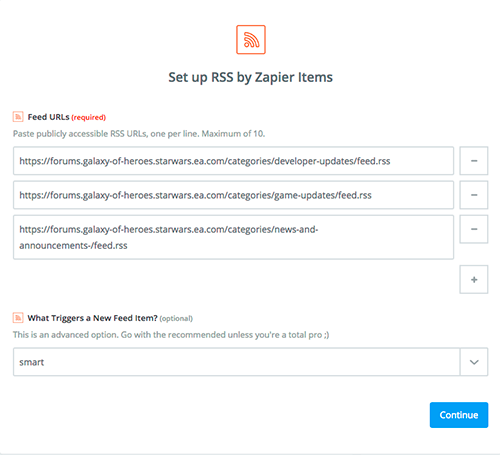
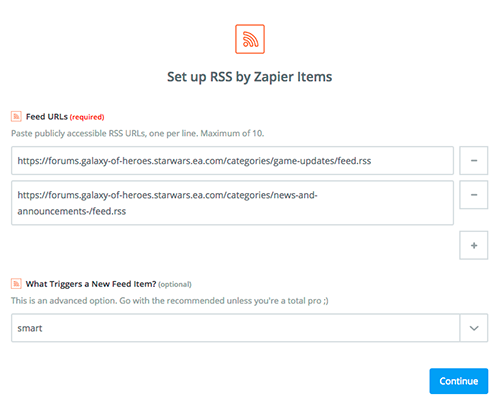
Updated discord instructions

diff --git a/discord.html b/discord.html
@@ -56,7 +56,6 @@
   <img src="images/step2.png" width="500" border="1" />
   <p>Enter the following three URLs:</p>
     <ul>
-      <li>https://forums.galaxy-of-heroes.starwars.ea.com/categories/developer-updates/feed.rss</li>
       <li>https://forums.galaxy-of-heroes.starwars.ea.com/categories/game-updates/feed.rss</li>
       <li>https://forums.galaxy-of-heroes.starwars.ea.com/categories/news-and-announcements-/feed.rss</li>
     </ul>

diff --git a/style.css b/style.css
@@ -367,6 +367,12 @@ input[type=text],textarea { font-size: 14px; padding:4px;margin:3px;}
   cursor: pointer;
 }
 
+.half {
+	display: inline-block;
+	width:45%;
+	min-width: 400px;
+	vertical-align: top;
+}
 
 @media (max-width: 800px) {
 	.square {

diff --git a/findshard.php b/findshard.php
@@ -47,10 +47,10 @@ if(!empty($me) && !empty($ally)) {
 <html>
 	<head>
 		<title>SWGOH Tools - Find your SWGOH Squad Arena Shard</title>
-	  	<link rel="stylesheet" type="text/css" href="style.css" media="screen" />
+	  	<link rel="stylesheet" type="text/css" href="style.css?2" media="screen" />
 		<meta charset="utf-8" />
 		<style>
-			p { max-width: 600px;}
+			p { max-width: 800px;}
 			.swgoh_ad {
 			position: absolute;
 			left:0;
@@ -66,25 +66,65 @@ if(!empty($me) && !empty($ally)) {
 			@media(min-width: 720px) { #top { padding-bottom:0px} #ad { height:90px;} .swgoh_ad { left:inherit; top:0; right:0; width: 528px; height: 90px; } }
 			@media(min-width: 920px) { #top { padding-bottom:0px} #ad { height:90px;} .swgoh_ad { left:inherit; top:0; right:0; width: 728px; height: 90px; } }
 			@media(min-width: 1200px) { #top { padding-bottom:0px} #ad { height:90px;} .swgoh_ad { left:inherit; top:0; right:0; width: 1000px; height: 90px; } }
-  </style>
-  <script async src="//pagead2.googlesyndication.com/pagead/js/adsbygoogle.js"></script>
+  	</style>
+  	<script async src="//pagead2.googlesyndication.com/pagead/js/adsbygoogle.js"></script>
+
+  	<script src="https://code.jquery.com/jquery-3.2.1.min.js" integrity="sha256-hwg4gsxgFZhOsEEamdOYGBf13FyQuiTwlAQgxVSNgt4=" crossorigin="anonymous"></script>
+	<script>
+	$(document).ready(function() {
+
+		var storage = null;
+		if(window.localStorage) storage = window.localStorage;
+		else if(window.globalStorage) storage = window.globalStorage[location.hostname];
+
+		var name = fetch("name");
+		if(name) $('#gamename').val(name);
+		$('#gamename').on("change",function(e) {
+			store("name",$('#gamename').val());
+		});
+
+		var ally = fetch("ally");
+		if(ally) $('#ally').val(ally);
+		$('#ally').on("change",function(e) {
+			store("ally",$('#ally').val());
+		});
+
+		var gg = fetch("gg");
+		if(gg) $('#gg').val(gg);
+		$('#gg').on("change",function(e) {
+			store("gg",$('#gg').val());
+		});
+
+		var contact = fetch("contact");
+		if(contact) $('#contact').val(contact);
+		$('#contact').on("change",function(e) {
+			store("contact",$('#contact').val());
+		});
+
+		function store(key,val) {
+			storage.setItem(key,val);
+		}
+		function fetch(key) {
+			return storage.getItem(key);
+		}
+	});
+	</script>
 	</head>
 	<body>
 		<div id="top">
-      <a href="http://www.swgoh.life/index.html" id="logoClick"></a>
-	  <div id="ad">
-	  <!-- Swgoh.life -->
-	  <ins class="adsbygoogle swgoh_ad"
-	       style="display:block"
-	       data-ad-client="ca-pub-0176506581219642"
-	       data-ad-slot="9855290481"
-	       data-ad-format="horizontal"></ins>
-	  <script>
-	  //https://support.google.com/adsense/answer/6307124
-	  (adsbygoogle = window.adsbygoogle || []).push({});
-	  </script>
-	    </div>
-
+      	<a href="http://www.swgoh.life/index.html" id="logoClick"></a>
+			<div id="ad">
+			<!-- Swgoh.life -->
+			<ins class="adsbygoogle swgoh_ad"
+			 style="display:block"
+			 data-ad-client="ca-pub-0176506581219642"
+			 data-ad-slot="9855290481"
+			 data-ad-format="horizontal"></ins>
+			<script>
+			//https://support.google.com/adsense/answer/6307124
+			(adsbygoogle = window.adsbygoogle || []).push({});
+			</script>
+			</div>
 	</div>
 	<div id="middleSolo">
 		<h1><a href="http://www.swgoh.life/index.html">More Tools</a> &gt; Find your SWGOH Squad Arena Shard</h1>
@@ -104,31 +144,33 @@ if(!empty($me) && !empty($ally)) {
 
 		<? if(empty($me) || empty($ally) || empty($user)) { ?>
 			<p>Do you want to get in touch with the other players on your SWGOH Squad Arena shard?  Please enter as much information as you can, and we'll try to find your shardmates and give you their contact information, if possible.</p>
-
+			<p>Looking for Fleet Arena? That's <a href="fleet.php">over here</a>.</p>
 			<?
 				$self = explode("/",$_SERVER['PHP_SELF']);
 				$self = array_pop($self);
 			?>
 			<form action="<?=$self?>" method="post">
-				<b>Your Game Name:</b><br />
+				<div class="half">
+				<b>Your Game Name:</b> (required)<br />
 				Found in the upper left corner inside the game on the home screen.<br />
-				<input type="text" name="gamename" value="<?=$me?>" /><br /><br />
+				<input type="text" id="gamename" name="gamename" value="<?=$me?>" /><br /><br />
 
-				<b>Your Ally Code:</b><br />
+				<b>Your Ally Code:</b> (required)<br />
 				Found in the Allies section of the game at the top. Ex: 123-456-789.<br />
-				<input type="text" name="ally" /><br /><br />
+				<input type="text" id="ally" name="ally" /><br /><br />
 				
-				<b>Your Contact Info:</b><br />
+				<b>Your Contact Info:</b> (optional)<br />
 				Explain how you want to be contacted. Ex: "Message me on Discord at User#1234"<br />
-				<textarea type="text" name="contact" rows="3" cols="40"></textarea>
+				<textarea type="text" id="contact" name="contact" rows="3" cols="40"></textarea>
 				<br /><br />
 
-				<b>Your SWGOH.GG Name:</b><br />
-				This helps people find you. (optional)<br />
-				https://swgoh.gg/u/<input type="text" name="gg" />/<br /><br />
+				<b>Your SWGOH.GG Name:</b> (optional)<br />
+				This helps people find you.<br />
+				https://swgoh.gg/u/<input type="text" id="gg" name="gg" />/<br /><br />
+				</div>
+				<div class="half">
 
 				<b>Enter the names of the top 10 people in your shard's Squad Arena:</b><br />
-				Looking for Fleet Arena? That's <a href="fleet.php">over here</a>. This is for Squad Arena only.<br />
 				<input type="text" name="mate1" /><br />
 				<input type="text" name="mate2" /><br />
 				<input type="text" name="mate3" /><br />
@@ -142,11 +184,16 @@ if(!empty($me) && !empty($ally)) {
 
 				<br />
 				<input type="submit" value="Search for Shard" class="btn" />
+				</div>
 			</form>
 		<? } else { ?>
-			<p>We found the following people who might be in your shard.</p>
-			<p><b>Note:</b> This tool is very new, so it hasn't collected enough names to be useful yet. Please encourage other people to enter their info so that this can work better.</p>
+			<? 
+				$rs = $db->query("SELECT count(*) FROM swgoh_shard");
+				$num = $db->getFirst($rs);
+			?>
+			<p><b>Note:</b> This tool is very new, so it hasn't collected enough names to be useful yet (<?=$num?> so far). Please encourage other people to enter their info so that this can work better.</p>
 
+			<p>We found the following people who might be in your shard.</p>
 			<br />
 			<table class="info">
 				<tr><th>Name</th><th>SWGOH.GG Link</th><th>Contact Info</th></tr>
@@ -186,7 +233,7 @@ if(!empty($me) && !empty($ally)) {
 
 
 
-	<br /><br /><br /><ins class="adsbygoogle"
+	<br /><br /><hr /><ins class="adsbygoogle"
 			 style="display:block; text-align:center;"
 			 data-ad-format="fluid"
 			 data-ad-layout="in-article"

diff --git a/findfleet.php b/findfleet.php
@@ -47,10 +47,10 @@ if(!empty($me) && !empty($ally)) {
 <html>
 	<head>
 		<title>SWGOH Tools - Find your SWGOH Fleet Arena Shard</title>
-	  	<link rel="stylesheet" type="text/css" href="style.css" media="screen" />
+	  	<link rel="stylesheet" type="text/css" href="style.css?2" media="screen" />
 		<meta charset="utf-8" />
 		<style>
-			p { max-width: 600px;}
+			p { max-width: 800px;}
 			.swgoh_ad {
 			position: absolute;
 			left:0;
@@ -68,23 +68,63 @@ if(!empty($me) && !empty($ally)) {
 			@media(min-width: 1200px) { #top { padding-bottom:0px} #ad { height:90px;} .swgoh_ad { left:inherit; top:0; right:0; width: 1000px; height: 90px; } }
   </style>
   <script async src="//pagead2.googlesyndication.com/pagead/js/adsbygoogle.js"></script>
+
+  	<script src="https://code.jquery.com/jquery-3.2.1.min.js" integrity="sha256-hwg4gsxgFZhOsEEamdOYGBf13FyQuiTwlAQgxVSNgt4=" crossorigin="anonymous"></script>
+	<script>
+	$(document).ready(function() {
+
+		var storage = null;
+		if(window.localStorage) storage = window.localStorage;
+		else if(window.globalStorage) storage = window.globalStorage[location.hostname];
+
+		var name = fetch("name");
+		if(name) $('#gamename').val(name);
+		$('#gamename').on("change",function(e) {
+			store("name",$('#gamename').val());
+		});
+
+		var ally = fetch("ally");
+		if(ally) $('#ally').val(ally);
+		$('#ally').on("change",function(e) {
+			store("ally",$('#ally').val());
+		});
+
+		var gg = fetch("gg");
+		if(gg) $('#gg').val(gg);
+		$('#gg').on("change",function(e) {
+			store("gg",$('#gg').val());
+		});
+
+		var contact = fetch("contact");
+		if(contact) $('#contact').val(contact);
+		$('#contact').on("change",function(e) {
+			store("contact",$('#contact').val());
+		});
+
+		function store(key,val) {
+			storage.setItem(key,val);
+		}
+		function fetch(key) {
+			return storage.getItem(key);
+		}
+	});
+	</script>
 	</head>
 	<body>
 		<div id="top">
-      <a href="http://www.swgoh.life/index.html" id="logoClick"></a>
-	  <div id="ad">
-	  <!-- Swgoh.life -->
-	  <ins class="adsbygoogle swgoh_ad"
-	       style="display:block"
-	       data-ad-client="ca-pub-0176506581219642"
-	       data-ad-slot="9855290481"
-	       data-ad-format="horizontal"></ins>
-	  <script>
-	  //https://support.google.com/adsense/answer/6307124
-	  (adsbygoogle = window.adsbygoogle || []).push({});
-	  </script>
-	    </div>
-
+      	<a href="http://www.swgoh.life/index.html" id="logoClick"></a>
+			<div id="ad">
+			<!-- Swgoh.life -->
+			<ins class="adsbygoogle swgoh_ad"
+			 style="display:block"
+			 data-ad-client="ca-pub-0176506581219642"
+			 data-ad-slot="9855290481"
+			 data-ad-format="horizontal"></ins>
+			<script>
+			//https://support.google.com/adsense/answer/6307124
+			(adsbygoogle = window.adsbygoogle || []).push({});
+			</script>
+			</div>
 	</div>
 	<div id="middleSolo">
 		<h1><a href="http://www.swgoh.life/index.html">More Tools</a> &gt; Find your SWGOH Fleet Arena Shard</h1>
@@ -104,31 +144,33 @@ if(!empty($me) && !empty($ally)) {
 
 		<? if(empty($me) || empty($ally) || empty($user)) { ?>
 			<p>Do you want to get in touch with the other players on your SWGOH Fleet Arena shard?  Please enter as much information as you can, and we'll try to find your shardmates and give you their contact information, if possible.</p>
+			<p>Looking for Squad Arena? That's <a href="index.php">over here</a>.</p>
 
 			<?
 				$self = explode("/",$_SERVER['PHP_SELF']);
 				$self = array_pop($self);
 			?>
 			<form action="<?=$self?>" method="post">
-				<b>Your Game Name:</b><br />
+				<div class="half">
+				<b>Your Game Name:</b> (required)<br />
 				Found in the upper left corner inside the game on the home screen.<br />
-				<input type="text" name="gamename" value="<?=$me?>" /><br /><br />
+				<input type="text" id="gamename" name="gamename" value="<?=$me?>" /><br /><br />
 
-				<b>Your Ally Code:</b><br />
+				<b>Your Ally Code:</b> (required)<br />
 				Found in the Allies section of the game at the top. Ex: 123-456-789.<br />
-				<input type="text" name="ally" /><br /><br />
+				<input type="text" id="ally" name="ally" /><br /><br />
 				
-				<b>Your Contact Info:</b><br />
+				<b>Your Contact Info:</b> (optional)<br />
 				Explain how you want to be contacted. Ex: "Message me on Discord at User#1234"<br />
-				<textarea type="text" name="contact" rows="3" cols="40"></textarea>
+				<textarea type="text" id="contact" name="contact" rows="3" cols="40"></textarea>
 				<br /><br />
 
-				<b>Your SWGOH.GG Name:</b><br />
-				This helps people find you. (optional)<br />
-				https://swgoh.gg/u/<input type="text" name="gg" />/<br /><br />
-
+				<b>Your SWGOH.GG Name:</b> (optional)<br />
+				This helps people find you.<br />
+				https://swgoh.gg/u/<input type="text" id="gg" name="gg" />/<br /><br />
+				</div>
+				<div class="half">
 				<b>Enter the names of the top 10 people in your shard's Fleet Arena:</b><br />
-				Looking for Squad Arena? That's <a href="index.php">over here</a>. This is for Fleet Arena only.<br />
 				<input type="text" name="mate1" /><br />
 				<input type="text" name="mate2" /><br />
 				<input type="text" name="mate3" /><br />
@@ -142,11 +184,16 @@ if(!empty($me) && !empty($ally)) {
 
 				<br />
 				<input type="submit" value="Search for Shard" class="btn" />
+				</div>
 			</form>
 		<? } else { ?>
-			<p>We found the following people who might be in your shard.</p>
-			<p><b>Note:</b> This tool is very new, so it hasn't collected enough names to be useful yet. Please encourage other people to enter their info so that this can work better.</p>
+			<? 
+				$rs = $db->query("SELECT count(*) FROM swgoh_fleet");
+				$num = $db->getFirst($rs);
+			?>
+			<p><b>Note:</b> This tool is very new, so it hasn't collected enough names to be useful yet (<?=$num?> so far). Please encourage other people to enter their info so that this can work better.</p>
 
+			<p>We found the following people who might be in your shard.</p>
 			<br />
 			<table class="info">
 				<tr><th>Name</th><th>SWGOH.GG Link</th><th>Contact Info</th></tr>
@@ -186,7 +233,7 @@ if(!empty($me) && !empty($ally)) {
 
 
 
-	<br /><br /><br /><ins class="adsbygoogle"
+	<br /><br /><hr /><ins class="adsbygoogle"
 			 style="display:block; text-align:center;"
 			 data-ad-format="fluid"
 			 data-ad-layout="in-article"
